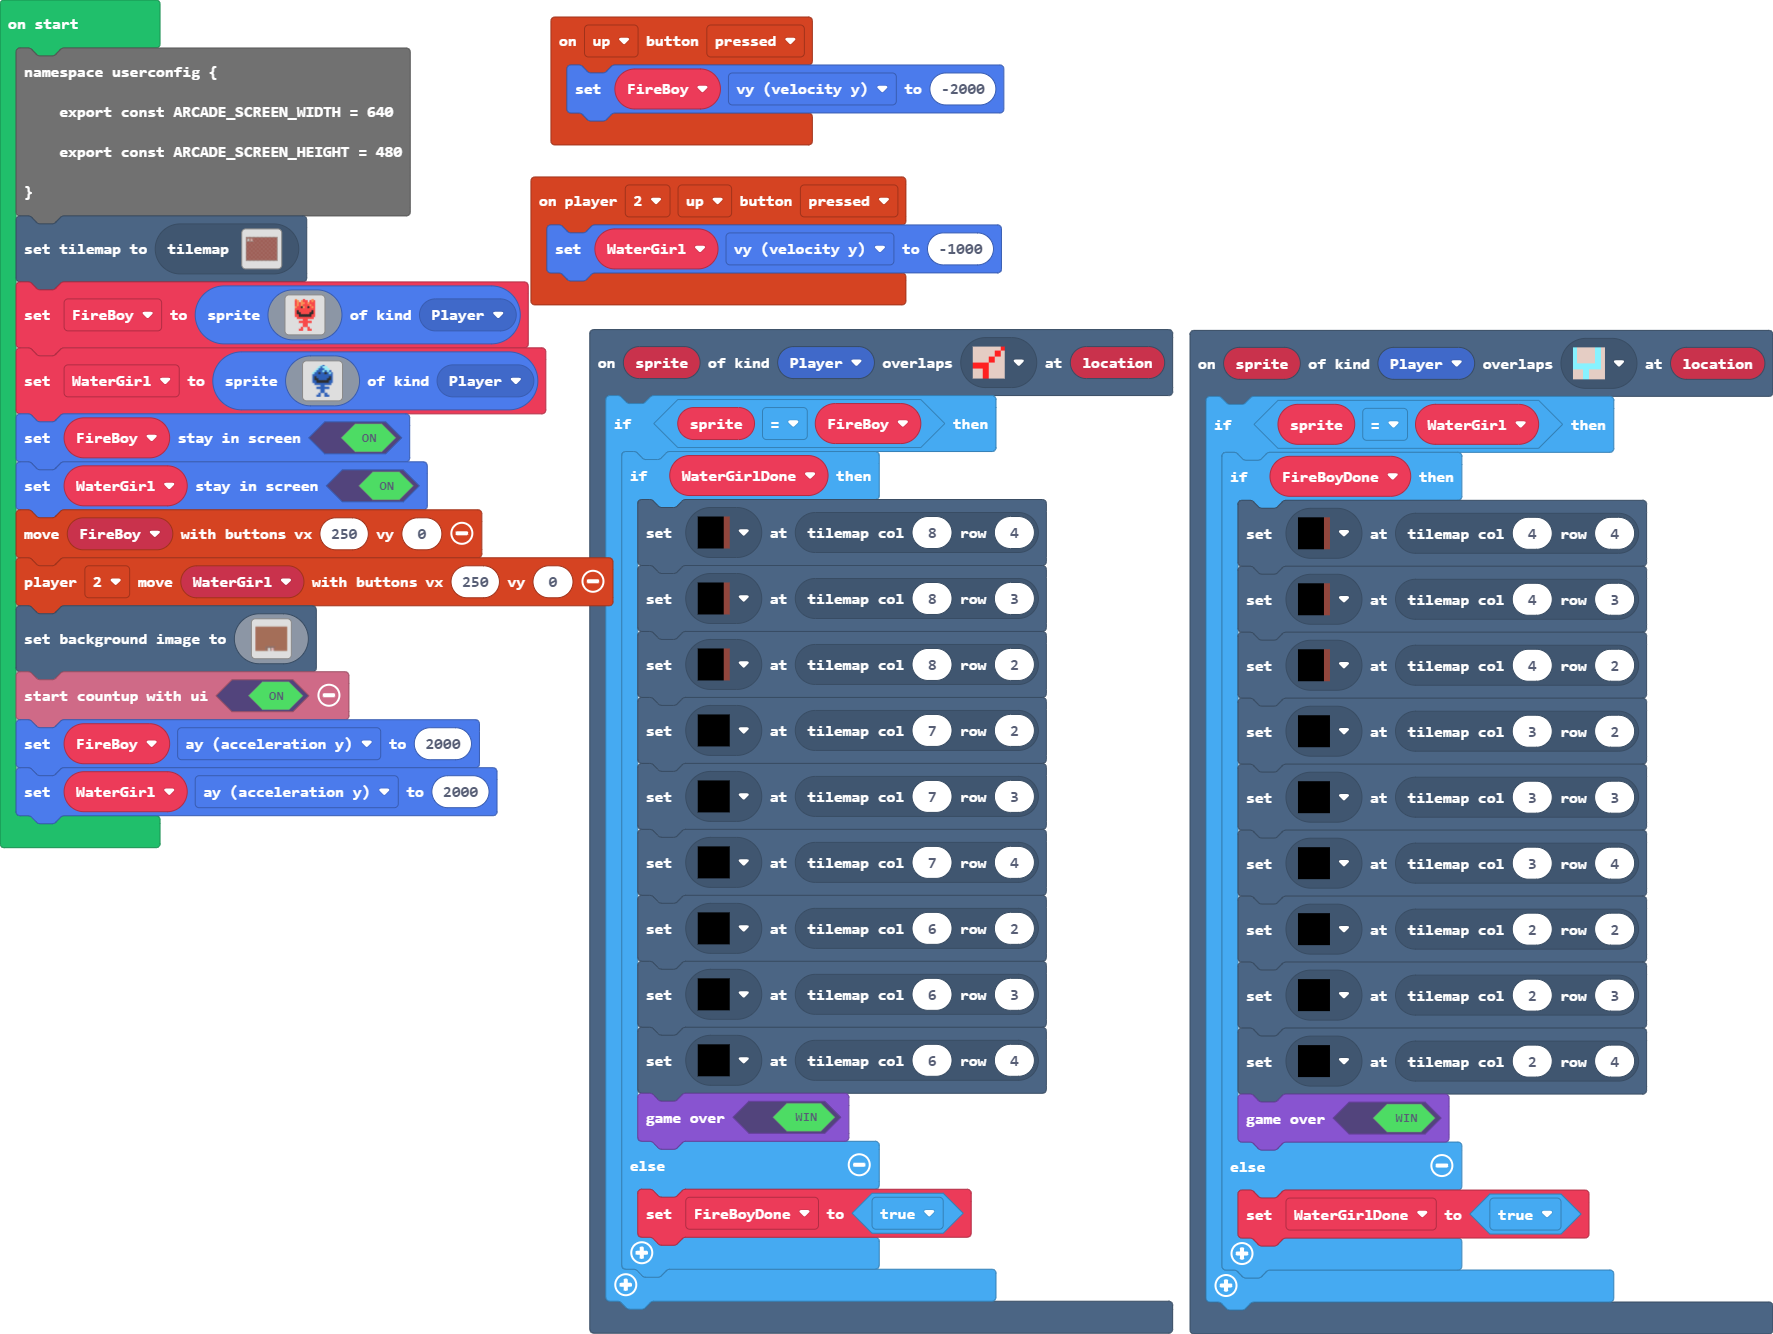
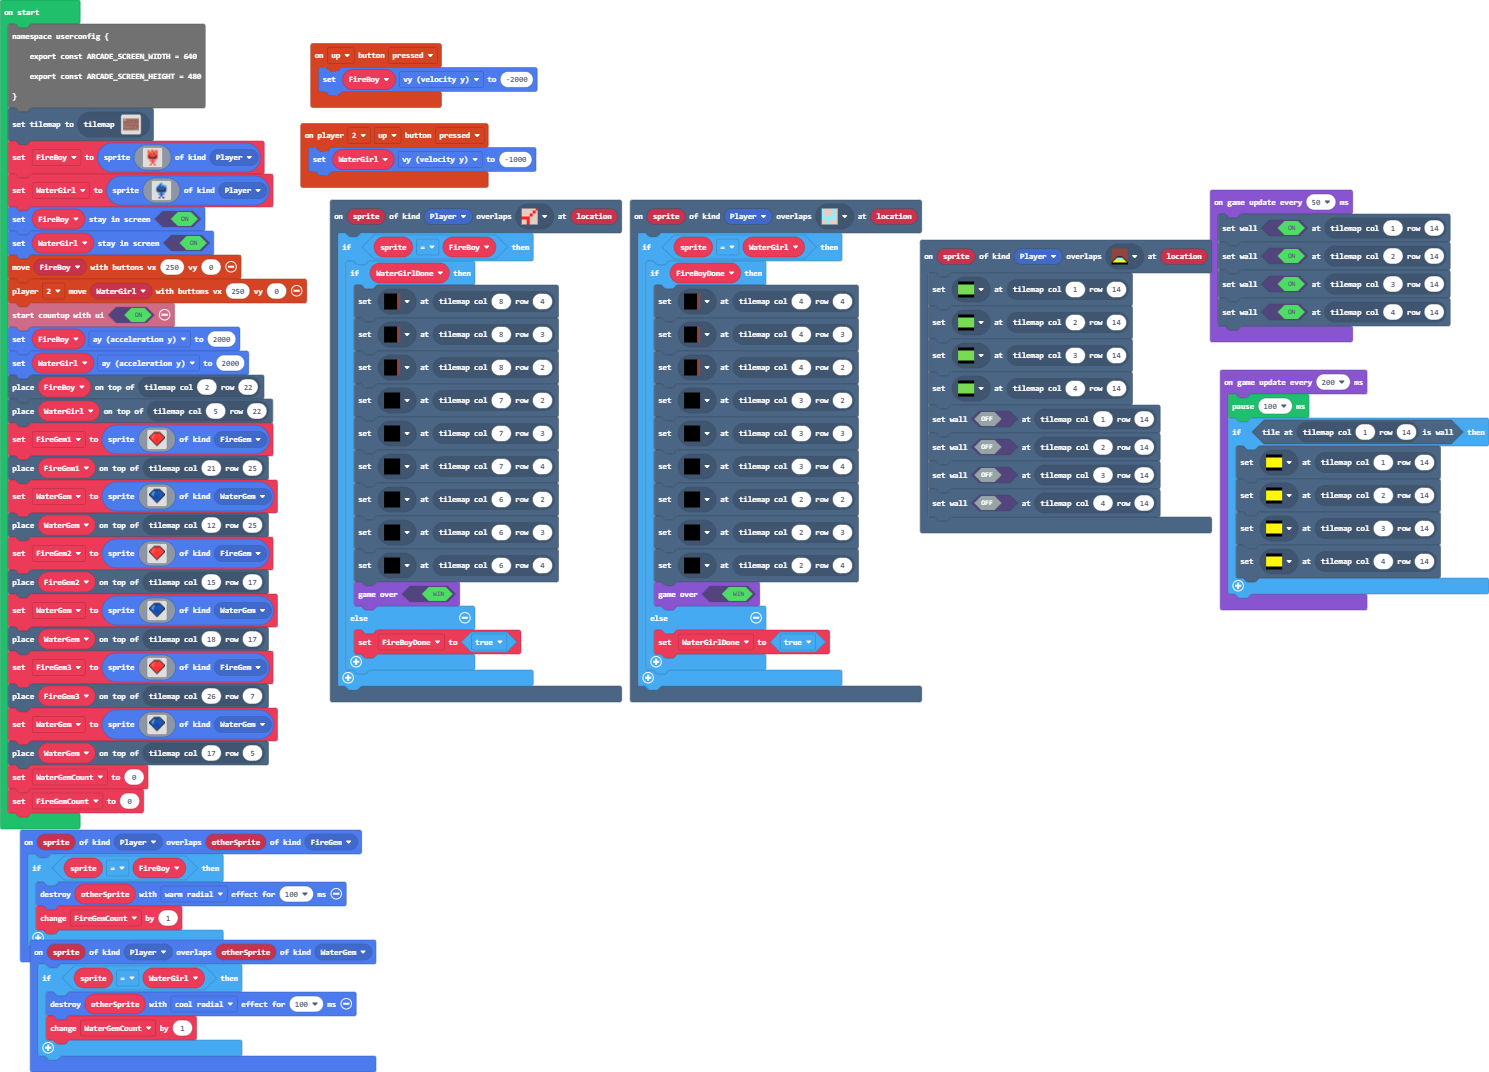
Gems

diff --git a/tilemap.g.ts b/tilemap.g.ts
@@ -60,6 +60,20 @@ namespace myTiles {
     export const tile28 = image.ofBuffer(hex``);
     //% fixedInstance jres blockIdentity=images._tile
     export const tile29 = image.ofBuffer(hex``);
+    //% fixedInstance jres blockIdentity=images._tile
+    export const tile31 = image.ofBuffer(hex``);
+    //% fixedInstance jres blockIdentity=images._tile
+    export const tile32 = image.ofBuffer(hex``);
+    //% fixedInstance jres blockIdentity=images._tile
+    export const tile33 = image.ofBuffer(hex``);
+    //% fixedInstance jres blockIdentity=images._tile
+    export const tile34 = image.ofBuffer(hex``);
+    //% fixedInstance jres blockIdentity=images._tile
+    export const tile35 = image.ofBuffer(hex``);
+    //% fixedInstance jres blockIdentity=images._tile
+    export const tile30 = image.ofBuffer(hex``);
+    //% fixedInstance jres blockIdentity=images._tile
+    export const tile36 = image.ofBuffer(hex``);
 
     helpers._registerFactory("tilemap", function(name: string) {
         switch(helpers.stringTrim(name)) {
@@ -83,38 +97,38 @@ namespace myTiles {
 . . . . . . . . . . . . . . . . 
 `, [myTiles.transparency16], TileScale.Sixteen);
             case "level2":
[2 lines of base64/hex data omitted]
 2222222222222222222222222222222222222222
 2......................................2
 2......................................2
 2......................................2
 2......................................2
 2222222222.............................2
+2............222...222.................2
+2............222222222.................2
+2.....................222...222........2
+2.....................222222222........2
 2......................................2
 2......................................2
 2......................................2
+2..................222222222222222222222
+2222222222222222222222.................2
 2......................................2
 2......................................2
 2......................................2
+222....................................2
+2222...................................2
+22222222222222222222222.....2222222....2
+22222222222222222222222222222222222....2
 2......................................2
 2......................................2
 2......................................2
-2......................................2
-2......................................2
-2......................................2
-2......................................2
-2......................................2
-2......................................2
-2......................................2
-2......................................2
-2......................................2
-2......................................2
-2......................................2
-2......................................2
-2......................................2
-2......................................2
+2...................................2222
+2...................................2222
+2222222222....22222....22222222222222222
 2222222222222222222222222222222222222222
-`, [myTiles.transparency16,myTiles.tile4,myTiles.tile16,myTiles.tile17,myTiles.tile18,myTiles.tile19,myTiles.tile20,myTiles.tile21,myTiles.tile22,myTiles.tile23,myTiles.tile24,myTiles.tile5,myTiles.tile6,myTiles.tile7,myTiles.tile8,myTiles.tile9,myTiles.tile10,myTiles.tile11,myTiles.tile12,myTiles.tile13,myTiles.tile14,myTiles.tile15,myTiles.tile25,myTiles.tile26,myTiles.tile27,myTiles.tile28], TileScale.Sixteen);
+2222222222222222222222222222222222222222
+`, [myTiles.transparency16,myTiles.tile4,myTiles.tile16,myTiles.tile17,myTiles.tile18,myTiles.tile19,myTiles.tile20,myTiles.tile21,myTiles.tile22,myTiles.tile23,myTiles.tile24,myTiles.tile5,myTiles.tile6,myTiles.tile7,myTiles.tile8,myTiles.tile9,myTiles.tile10,myTiles.tile11,myTiles.tile12,myTiles.tile13,myTiles.tile14,myTiles.tile15,myTiles.tile25,myTiles.tile26,myTiles.tile27,myTiles.tile28,myTiles.tile31,myTiles.tile32,myTiles.tile30,myTiles.tile33,myTiles.tile34,myTiles.tile36], TileScale.Sixteen);
         }
         return null;
     })
@@ -180,6 +194,20 @@ namespace myTiles {
             case "tile28":return tile28;
             case "myTile3":
             case "tile29":return tile29;
+            case "WallBottomLeftCorner0":
+            case "tile31":return tile31;
+            case "WallBottomLeftCorner1":
+            case "tile32":return tile32;
+            case "WallBottomLeftCorner2":
+            case "tile33":return tile33;
+            case "myTile5":
+            case "tile34":return tile34;
+            case "myTile6":
+            case "tile35":return tile35;
+            case "myTile4":
+            case "tile30":return tile30;
+            case "WallBottomLeftCorner3":
+            case "tile36":return tile36;
         }
         return null;
     })

diff --git a/main.ts b/main.ts
@@ -1,6 +1,8 @@
 namespace SpriteKind {
     export const OverlapDoor = SpriteKind.create()
     export const Wall = SpriteKind.create()
+    export const FireGem = SpriteKind.create()
+    export const WaterGem = SpriteKind.create()
 }
 scene.onOverlapTile(SpriteKind.Player, assets.tile`MiddleMiddleFire`, function (sprite, location) {
     if (sprite == FireBoy) {
@@ -41,8 +43,30 @@ scene.onOverlapTile(SpriteKind.Player, assets.tile`MiddleMiddleWater`, function 
         }
     }
 })
+sprites.onOverlap(SpriteKind.Player, SpriteKind.FireGem, function (sprite, otherSprite) {
+    if (sprite == FireBoy) {
+        sprites.destroy(otherSprite, effects.warmRadial, 100)
+        FireGemCount += 1
+    }
+})
+scene.onOverlapTile(SpriteKind.Player, assets.tile`myTile4`, function (sprite, location) {
+    tiles.setTileAt(tiles.getTileLocation(1, 14), assets.tile`myTile6`)
+    tiles.setTileAt(tiles.getTileLocation(2, 14), assets.tile`myTile6`)
+    tiles.setTileAt(tiles.getTileLocation(3, 14), assets.tile`myTile6`)
+    tiles.setTileAt(tiles.getTileLocation(4, 14), assets.tile`myTile6`)
+    tiles.setWallAt(tiles.getTileLocation(1, 14), false)
+    tiles.setWallAt(tiles.getTileLocation(2, 14), false)
+    tiles.setWallAt(tiles.getTileLocation(3, 14), false)
+    tiles.setWallAt(tiles.getTileLocation(4, 14), false)
+})
 controller.player2.onButtonEvent(ControllerButton.Up, ControllerButtonEvent.Pressed, function () {
     WaterGirl.vy = -1000
+})
+sprites.onOverlap(SpriteKind.Player, SpriteKind.WaterGem, function (sprite, otherSprite) {
+    if (sprite == WaterGirl) {
+        sprites.destroy(otherSprite, effects.coolRadial, 100)
+        WaterGemCount += 1
+    }
 })
 let FireBoyDone = false
 let WaterGirlDone = false
@@ -59,7 +83,37 @@ FireBoy.setStayInScreen(true)
 WaterGirl.setStayInScreen(true)
 controller.moveSprite(FireBoy, 250, 0)
 controller.player2.moveSprite(WaterGirl, 250, 0)
-scene.setBackgroundImage(assets.image`Level 1`)
 info.startCountup(true)
 FireBoy.ay = 2000
 WaterGirl.ay = 2000
+tiles.placeOnTile(FireBoy, tiles.getTileLocation(2, 22))
+tiles.placeOnTile(WaterGirl, tiles.getTileLocation(5, 22))
+let FireGem1 = sprites.create(assets.image`FireGem`, SpriteKind.FireGem)
+tiles.placeOnTile(FireGem1, tiles.getTileLocation(21, 25))
+let WaterGem = sprites.create(assets.image`WaterGem`, SpriteKind.WaterGem)
+tiles.placeOnTile(WaterGem, tiles.getTileLocation(12, 25))
+let FireGem2 = sprites.create(assets.image`FireGem`, SpriteKind.FireGem)
+tiles.placeOnTile(FireGem2, tiles.getTileLocation(15, 17))
+WaterGem = sprites.create(assets.image`WaterGem`, SpriteKind.WaterGem)
+tiles.placeOnTile(WaterGem, tiles.getTileLocation(18, 17))
+let FireGem3 = sprites.create(assets.image`FireGem`, SpriteKind.FireGem)
+tiles.placeOnTile(FireGem3, tiles.getTileLocation(26, 7))
+WaterGem = sprites.create(assets.image`WaterGem`, SpriteKind.WaterGem)
+tiles.placeOnTile(WaterGem, tiles.getTileLocation(17, 5))
+let WaterGemCount = 0
+let FireGemCount = 0
+game.onUpdateInterval(50, function () {
+    tiles.setWallAt(tiles.getTileLocation(1, 14), true)
+    tiles.setWallAt(tiles.getTileLocation(2, 14), true)
+    tiles.setWallAt(tiles.getTileLocation(3, 14), true)
+    tiles.setWallAt(tiles.getTileLocation(4, 14), true)
+})
+game.onUpdateInterval(200, function () {
+    pause(100)
+    if (tiles.tileAtLocationIsWall(tiles.getTileLocation(1, 14))) {
+        tiles.setTileAt(tiles.getTileLocation(1, 14), assets.tile`myTile5`)
+        tiles.setTileAt(tiles.getTileLocation(2, 14), assets.tile`myTile5`)
+        tiles.setTileAt(tiles.getTileLocation(3, 14), assets.tile`myTile5`)
+        tiles.setTileAt(tiles.getTileLocation(4, 14), assets.tile`myTile5`)
+    }
+})

diff --git a/images.g.ts b/images.g.ts
@@ -323,6 +323,42 @@ eeeeeeeeeeeeeeeeeeeeeeeeeeeeeeeeeeeeeeeeeeeeeeeeeeeeeefdfeeeeefdddddddddddddfeef
 ......888888......8888888.....
 ......888888......8888888.....
 `;
+            case "image9":
+            case "FireGem":return img`
+. . . . . f f f f f f f . . . . . 
+. . . . f 2 2 2 2 2 2 2 f . . . . 
+. . . f 2 2 2 2 2 2 2 2 2 f . . . 
+. . f 2 2 4 2 2 2 2 2 2 2 2 f . . 
+. f 2 2 4 2 2 2 2 2 2 2 2 2 2 f . 
+f 2 2 4 2 2 2 2 2 2 2 2 2 2 2 2 f 
+f 2 2 2 4 2 2 2 2 2 2 2 2 2 2 2 f 
+. f 2 2 2 2 2 2 2 2 2 2 2 2 2 f . 
+. . f 2 2 2 2 2 2 2 2 2 2 2 f . . 
+. . . f 2 2 2 2 2 2 2 2 2 f . . . 
+. . . . f 2 2 2 2 2 2 2 f . . . . 
+. . . . . f 2 2 2 2 2 f . . . . . 
+. . . . . . f 2 2 2 f . . . . . . 
+. . . . . . . f 2 f . . . . . . . 
+. . . . . . . . f . . . . . . . . 
+`;
+            case "image10":
+            case "WaterGem":return img`
+. . . . . f f f f f f f . . . . . 
+. . . . f 8 8 8 8 8 8 8 f . . . . 
+. . . f 8 8 8 8 8 8 8 8 8 f . . . 
+. . f 8 8 9 8 8 8 8 8 8 8 8 f . . 
+. f 8 8 9 8 8 8 8 8 8 8 8 8 8 f . 
+f 8 8 9 8 8 8 8 8 8 8 8 8 8 8 8 f 
+f 8 8 8 9 8 8 8 8 8 8 8 8 8 8 8 f 
+. f 8 8 8 8 8 8 8 8 8 8 8 8 8 f . 
+. . f 8 8 8 8 8 8 8 8 8 8 8 f . . 
+. . . f 8 8 8 8 8 8 8 8 8 f . . . 
+. . . . f 8 8 8 8 8 8 8 f . . . . 
+. . . . . f 8 8 8 8 8 f . . . . . 
+. . . . . . f 8 8 8 f . . . . . . 
+. . . . . . . f 8 f . . . . . . . 
+. . . . . . . . f . . . . . . . . 
+`;
         }
         return null;
     })
